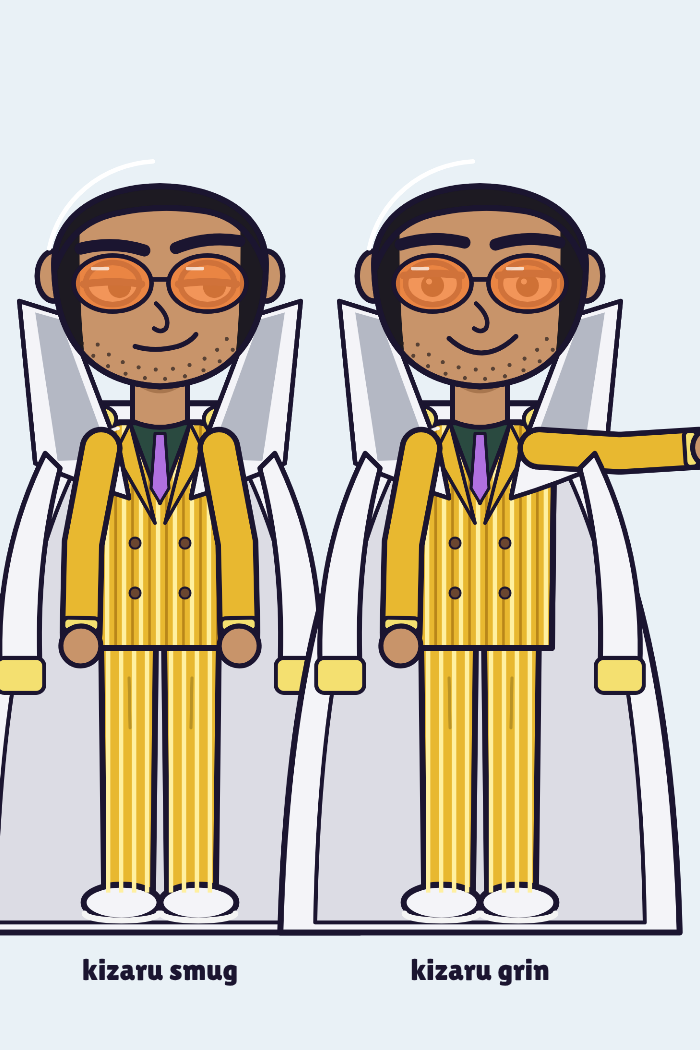
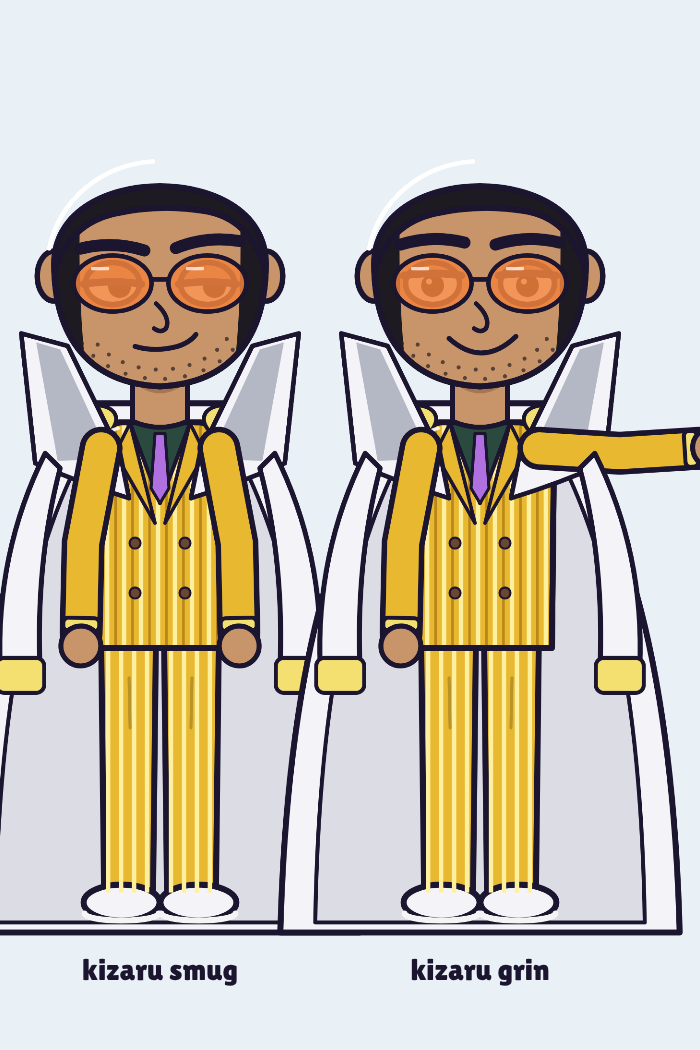
Kizaru: shorter collar
Claude-Session: https://claude.ai/code/session_01LedSfqc1zbW4UvWfiqXE3c

diff --git a/engine/art.js b/engine/art.js
@@ -328,9 +328,9 @@ function drawTorso(x, L) {
     for (const sd of [-1, 1]) { x.beginPath(); x.ellipse(380 + sd * 170, 650, 85, 42, sd * 0.3, 0, 7); fs(x, '#f4e070', 8); x.strokeStyle = '#d8b830'; x.lineWidth = 6; for (let k = 0; k < 6; k++) { x.beginPath(); x.moveTo(380 + sd * (115 + k * 20), 680); x.lineTo(380 + sd * (125 + k * 20), 745); x.stroke(); } }
     if (L.popCollar) for (const sd of [-1, 1]) { // tall coat collar standing up beside the face: white outside, big grey inside, thin white inner edge
       const P = (px, py) => [380 + sd * px, py];
-      x.beginPath(); x.moveTo(...P(250, 720)); x.lineTo(...P(282, 395)); x.lineTo(...P(185, 425)); x.lineTo(...P(80, 700)); x.lineTo(...P(62, 790)); x.quadraticCurveTo(...P(160, 760), ...P(250, 720)); x.closePath(); fs(x, '#f4f4f8', 9);
-      x.beginPath(); x.moveTo(...P(200, 432)); x.lineTo(...P(250, 418)); x.lineTo(...P(205, 715)); x.lineTo(...P(98, 712)); x.closePath(); fs(x, '#b4b8c4', 0);
-      x.beginPath(); x.moveTo(...P(250, 720)); x.lineTo(...P(282, 395)); x.lineTo(...P(185, 425)); x.lineTo(...P(80, 700)); x.lineTo(...P(62, 790)); x.lineWidth = 9; x.strokeStyle = OL; x.stroke(); }
+      x.beginPath(); x.moveTo(...P(250, 720)); x.lineTo(...P(278, 460)); x.lineTo(...P(185, 485)); x.lineTo(...P(80, 700)); x.lineTo(...P(62, 790)); x.quadraticCurveTo(...P(160, 760), ...P(250, 720)); x.closePath(); fs(x, '#f4f4f8', 9);
+      x.beginPath(); x.moveTo(...P(200, 492)); x.lineTo(...P(248, 478)); x.lineTo(...P(205, 715)); x.lineTo(...P(98, 712)); x.closePath(); fs(x, '#b4b8c4', 0);
+      x.beginPath(); x.moveTo(...P(250, 720)); x.lineTo(...P(278, 460)); x.lineTo(...P(185, 485)); x.lineTo(...P(80, 700)); x.lineTo(...P(62, 790)); x.lineWidth = 9; x.strokeStyle = OL; x.stroke(); }
   } else if (L.top === 'peacoat') { // short double-breasted coat with gold buttons and a high collar
     x.beginPath(); x.moveTo(232, 720); x.quadraticCurveTo(236, 650, 300, 638); x.lineTo(460, 638); x.quadraticCurveTo(524, 650, 528, 720); x.lineTo(540, 1130); x.lineTo(220, 1130); x.closePath(); fs(x, L.cloth, 12);
     x.fillStyle = '#e8b52e'; for (let r = 0; r < 3; r++) for (const sd of [-1, 1]) { x.beginPath(); x.arc(380 + sd * 55, 760 + r * 110, 16, 0, 7); x.fill(); }
